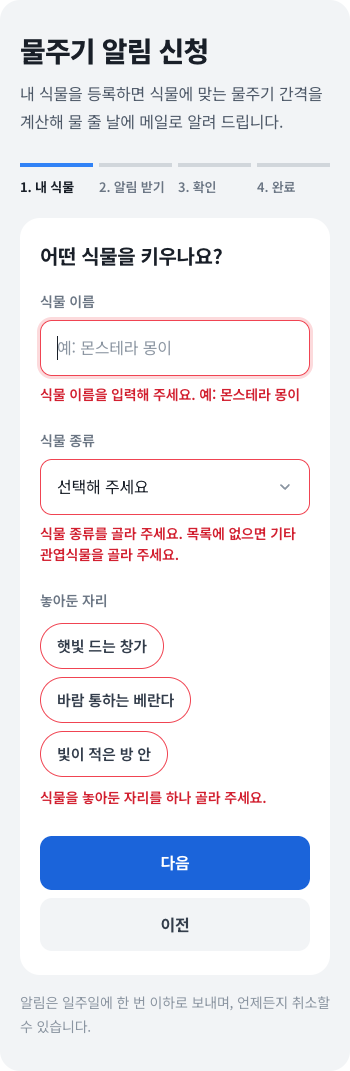
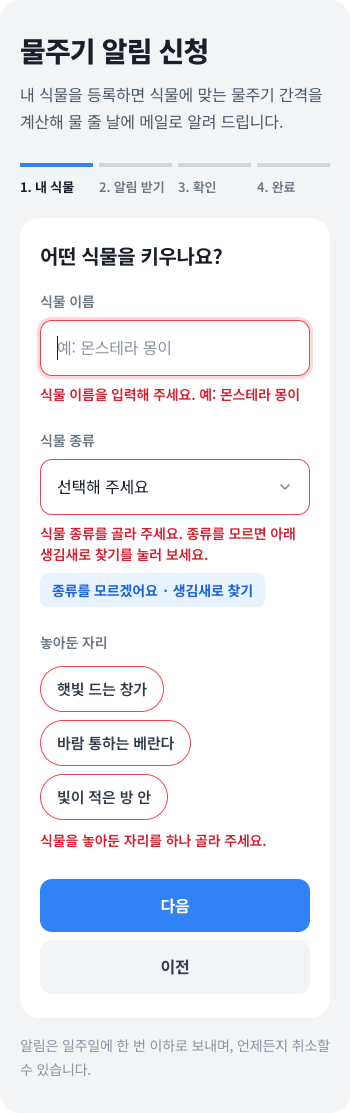
README에 중간고사 추가 기능과 테스트 결과 기록
- 생김새로 식물 찾기의 사용자 행동, 조건, 성공·오류·결과 없음·취소 반응 정리
- 1100px·768px·390px·320px 테스트 결과와 화면 캡처 추가
- 바뀐 2단계 오류 안내 화면 캡처 갱신

diff --git a/README.md b/README.md
@@ -17,6 +17,65 @@
 
 페이지 구성: 상단 바 → 첫 화면 → 서비스 소개 → 주요 기능(탭 3개) → 이용 방법 → 물주기 알림 신청 → 푸터
 
+## 중간고사 추가 기능: 생김새로 식물 찾기
+
+7주차 신청 흐름의 2단계(내 식물)에 **식물 종류를 모를 때 잎·줄기 생김새로 찾아 바로 고르는 경로**를 추가했습니다. "구멍 난 잎", "덩굴"처럼 생김새나 식물 이름을 입력하면 맞는 식물 목록이 나오고, 고른 식물이 신청 흐름의 식물 종류와 확인 화면에 반영됩니다.
+
+- **사용자·목표와의 연결**: 주요 사용자인 식물 초보는 선물 받거나 사 온 식물의 종류 이름을 모르는 경우가 많습니다. 7주차 흐름에서는 종류를 모르면 2단계에서 막혀 목표(물주기 알림 받기)를 끝낼 수 없었습니다. 물주기 간격도 종류에 따라 달라지므로, 종류를 제대로 고르게 돕는 것이 알림의 정확도와도 이어집니다.
+- **흐름과 연결한 지점**: 흐름의 중간인 2단계(내 식물)입니다. `식물 종류` 선택창 아래 `종류를 모르겠어요 · 생김새로 찾기` 버튼에서 시작합니다. 종류를 고르지 않고 `다음`을 누르면 나오는 오류 안내("종류를 모르면 아래 생김새로 찾기를 눌러 보세요.")도 이 기능으로 안내합니다.
+- **입력과 버튼**: `식물 이름이나 잎·줄기 생김새` 검색창, 예시 검색어 버튼 5개(구멍 난 잎 · 덩굴 · 통통한 잎 · 하얀 꽃 · 가시), `찾기`, `이 식물로 선택`, `기타 관엽식물로 등록`(결과 없음일 때), `닫기`
+- **찾는 방법**: 띄어쓰기를 무시하고 식물 8종의 이름 · 생김새 설명 · 검색어 목록과 비교합니다. 검색창에서 누른 Enter는 신청 흐름의 다음 단계로 넘어가지 않고 검색만 합니다. 한글을 조합하는 중에 누른 Enter는 무시해서 검색이 두 번 실행되지 않게 했습니다.
+
+### 사용자 행동과 반응
+
+| 사용자 행동 | 이벤트 | 확인할 조건 | 화면 반응 | 다음 행동 |
+| --- | --- | --- | --- | --- |
+| `종류를 모르겠어요 · 생김새로 찾기` 누름 | `click` | 찾기 영역이 닫혀 있음 | 찾기 영역을 펼치고 검색창에 커서, 버튼은 회색(펼침 상태)으로 바뀜 | 생김새 입력 또는 예시 검색어 누르기 |
+| 검색어 입력 후 `찾기` 누름 또는 Enter | `click` / `keydown` | **성공**: 검색어가 있고 맞는 식물이 있음 | "‘구멍 난 잎’ 검색 결과 1개 · 키우는 식물을 골라 주세요."와 결과 카드(이름 · 생김새 · 기본 물주기 간격) 표시 | `이 식물로 선택` |
+| 〃 | 〃 | **오류**: 검색어가 비어 있음 | 검색창 빨간 테두리와 "찾을 식물의 이름이나 생김새를 입력해 주세요. 예: 구멍 난 잎", 검색창에 커서 | 생김새 입력 (입력하면 오류 표시가 지워짐) |
+| 〃 | 〃 | **결과 없음**: 맞는 식물이 없음 | 주황 글씨 "‘파란 잎’ 검색 결과가 없어요."와 다시 찾는 방법 안내 | 다른 생김새로 다시 찾기 또는 `기타 관엽식물로 등록` |
+| 예시 검색어 버튼 누름 | `click` | - | 검색창에 검색어를 넣고 바로 검색 | `이 식물로 선택` |
+| `이 식물로 선택` 누름 | `click` | - | 식물 종류 선택창에 반영, 종류 오류 지움, 찾기 영역 닫힘, 파란 글씨 "생김새로 찾은 식물: 스파티필름 · 기본 4일마다 물주기" | 자리를 고르고 `다음` → 확인 화면에 "스파티필름 (생김새로 찾음)"과 계산된 간격 표시 |
+| `기타 관엽식물로 등록` 누름 | `click` | 결과 없음 상태 | 종류를 기타 관엽식물로 정하고 "목록에 없는 식물이라 기타 관엽식물(기본 7일마다)로 등록했어요." 안내 | `다음` |
+| `닫기` 누름 (또는 찾기 버튼을 한 번 더 누름) | `click` | **취소**: 찾기 영역이 열려 있음 | 찾기 영역 닫힘, 식물 종류는 그대로, "식물 찾기를 닫았어요. 식물 종류는 그대로예요. 목록에서 고르거나 다시 찾아보세요." | 목록에서 직접 고르기 또는 다시 찾기 |
+| 찾은 뒤 목록에서 종류를 직접 바꿈 | `change` | - | 찾기 안내를 지우고, 확인 화면의 "(생김새로 찾음)" 표시도 빠짐 | `다음` |
+| 찾기를 다시 열거나 `이전`으로 갔다가 돌아옴 | `click` | - | 마지막 검색어와 결과를 그대로 유지 | 이어서 고르기 |
+| `처음부터 다시 신청하기` 누름 | `click` | - | 검색어, 결과, 결과 없음 안내, 오류, 찾기 안내를 모두 지우고 찾기 영역을 닫음 | 새로 신청 |
+
+**파일별 역할**
+- HTML: 찾기 버튼, 검색창, 예시 검색어, 결과 목록, 결과 없음 안내의 구조를 담당합니다. `hidden`, `aria-expanded`, `aria-live`를 사용합니다.
+- CSS: 펼침 상태의 버튼 색, 오류 테두리, 결과 없음의 주황 안내, 결과 카드를 표현하고, 모바일에서는 `이 식물로 선택` 버튼을 전체 너비로 배치합니다.
+- JavaScript: 이벤트(`click` · `keydown` · `input` · `change`)를 연결하고, 검색 조건을 판단해 결과 목록을 만들고, 신청 흐름의 식물 종류와 확인 화면에 반영하고, 초기화합니다.
+
+### 중간고사 기능 테스트 결과
+
+Chrome 브라우저를 스크립트(Puppeteer)로 조작해 화면 너비 1100px · 768px · 390px · 320px에서 실제 클릭 · 터치 · 키 입력을 실행하고, 화면에 나타난 문구와 상태를 확인했습니다. 390px과 320px은 모바일 터치로 조작했습니다.
+
+| 경로 | 시험한 내용 | 1100px | 768px | 390px | 320px |
+| --- | --- | :---: | :---: | :---: | :---: |
+| 정상 | "구멍 난 잎" 입력 후 Enter → 몬스테라 1개, 신청 흐름은 2단계 그대로 | 통과 | 통과 | 통과 | 통과 |
+| 정상 | 예시 "하얀 꽃" → 스파티필름 → `이 식물로 선택` → 선택창 반영, 안내 표시, 찾기 닫힘 | 통과 | 통과 | 통과 | 통과 |
+| 정상 | 이어서 신청 → 확인 화면에 "스파티필름 (생김새로 찾음)", 창가 기준 3일마다 | 통과 | 통과 | 통과 | 통과 |
+| 정상 | 넓은 검색어 "잎" → 결과 7개 목록 | 통과 | 통과 | 통과 | 통과 |
+| 오류 | 빈 검색창으로 `찾기` → 안내, 빨간 테두리, 검색창에 커서 / 입력하면 오류 지움 | 통과 | 통과 | 통과 | 통과 |
+| 오류 연결 | 종류 없이 `다음` → 종류 오류 안내에서 생김새로 찾기 안내 | 통과 | 통과 | 통과 | 통과 |
+| 결과 없음 | "파란 잎" → 결과 없음 안내 → `기타 관엽식물로 등록` → 종류 반영, 종류 오류 지움 | 통과 | 통과 | 통과 | 통과 |
+| 취소 | `닫기` → 찾기 닫힘, 종류 그대로, 다음 행동 안내, 찾기 버튼에 커서 | 통과 | 통과 | 통과 | 통과 |
+| 수정 | 찾은 뒤 목록에서 직접 변경 → 안내 지움 / 확인 화면 `수정`으로 돌아와 선인장으로 변경 → 확인 화면에 "선인장", 17일마다 | 통과 | 통과 | 통과 | 통과 |
+| 값 유지 | 찾기를 다시 열거나 `이전`으로 갔다가 돌아와도 검색어와 결과 유지 | 통과 | 통과 | 통과 | 통과 |
+| 초기화 | 신청 완료 후 `처음부터 다시 신청하기` → 찾기 관련 상태 모두 초기화 | 통과 | 통과 | 통과 | 통과 |
+| 화면 | 모든 상태에서 가로 넘침 · 잘림 · 버튼과 입력창 겹침 없음 | 통과 | 통과 | 통과 | 통과 |
+| 기존 기능 | 7주차 신청 흐름과 주요 기능 탭 다시 확인 (아래 테스트 결과) | 통과 | 통과 | 통과 | 통과 |
+| 콘솔 JavaScript 오류 | - | 없음 | 없음 | 없음 | 없음 |
+
+| 검색 결과 (1100px) | 결과 없음 (390px) |
+| --- | --- |
+| ![생김새 검색 결과 목록](assets/readme/finder-1100-results.png) | ![검색 결과 없음 안내와 기타 관엽식물 등록 버튼](assets/readme/finder-390-no-result.png) |
+
+| 선택 후 안내 (390px) | 확인 화면 반영 (1100px) |
+| --- | --- |
+| ![찾은 식물이 식물 종류에 반영된 화면](assets/readme/finder-390-picked.png) | ![확인 화면의 생김새로 찾음 표시](assets/readme/finder-1100-confirm.png) |
+
 ## 사용자 흐름: 물주기 알림 신청
 
 페이지 맨 아래 `물주기 알림 신청`에서 시작부터 완료까지 다섯 단계로 진행합니다. 상단 메뉴의 `알림 신청`이나 첫 화면의 `물주기 알림 받기` 버튼으로도 바로 이동할 수 있습니다.
@@ -24,7 +83,7 @@
 | 단계 | 화면 제목 | 사용자가 하는 일 | 다음 단계로 가는 조건 |
 | --- | --- | --- | --- |
 | 1. 시작 | 내 식물 등록하고 물주기 알림 받기 | 필요한 정보를 확인하고 `등록 시작하기` | 없음 |
-| 2. 내 식물 (입력·선택) | 어떤 식물을 키우나요? | 식물 이름 입력, 식물 종류 선택, 놓아둔 자리 선택 | 세 항목 모두 입력·선택 |
+| 2. 내 식물 (입력·선택) | 어떤 식물을 키우나요? | 식물 이름 입력, 식물 종류 선택(모르면 생김새로 찾기), 놓아둔 자리 선택 | 세 항목 모두 입력·선택 |
 | 3. 알림 받기 (입력·선택) | 알림을 어디로 보내 드릴까요? | 이메일 입력, 알림 받을 시간 선택 | 이메일 형식이 맞고 시간을 고름 |
 | 4. 확인 | 입력한 내용을 확인해 주세요 | 입력 내용과 계산된 물주기 간격·첫 알림 날짜 확인, 필요하면 `수정`, 수신 동의 체크 | 수신 동의 체크 |
 | 5. 완료 | 물주기 알림 신청 완료 | 결과 확인, 필요하면 `처음부터 다시 신청하기` | - |
@@ -66,9 +125,9 @@
 | --- | --- | --- |
 | ![물주기 알림 탭](assets/readme/1100-water.png) | ![사진 진단 탭](assets/readme/768-diagnosis.png) | ![성장 일지 탭](assets/readme/390-diary.png) |
 
-## 테스트 결과
+## 테스트 결과: 신청 흐름과 기존 기능
 
-Chrome에서 화면 너비 1100px · 768px · 390px · 320px로 페이지를 열고, 위 시나리오를 실제로 클릭·입력·선택하며 확인했습니다. 390px과 320px은 모바일 화면(터치)으로 테스트했습니다. 단계마다 가로 스크롤이 생기거나 화면 밖으로 잘리는 요소가 있는지도 검사했습니다.
+Chrome에서 화면 너비 1100px · 768px · 390px · 320px로 페이지를 열고, 위 시나리오를 실제로 클릭·입력·선택하며 확인했습니다. 중간고사 기능을 추가한 뒤에도 다시 실행해 모두 통과했습니다. 390px과 320px은 모바일 화면(터치)으로 테스트했습니다. 단계마다 가로 스크롤이 생기거나 화면 밖으로 잘리는 요소가 있는지도 검사했습니다.
 
 | 확인 항목 | 1100px | 768px | 390px | 320px |
 | --- | :---: | :---: | :---: | :---: |
@@ -99,13 +158,14 @@ Chrome에서 화면 너비 1100px · 768px · 390px · 320px로 페이지를 열
 | 5주차 | 알림 신청 폼에 JavaScript 입력 확인과 결과 안내, 버튼 상태 변경 추가 |
 | 6주차 | 주요 기능을 탭 3개로 바꾸고, 물주기 계산·잎 상태 진단·성장 일지 체험 기능 추가 |
 | 7주차 | 알림 신청 폼을 시작 → 내 식물 → 알림 받기 → 확인 → 완료의 5단계 흐름으로 확장 |
+| 중간고사 | 신청 흐름 2단계에 종류를 모를 때 생김새로 식물을 찾아 고르는 경로 추가, 식물 종류 3개(고무나무 · 스파티필름 · 선인장) 추가 |
 
 ## 파일 구성
 
 ```
 index.html          페이지 구조와 내용
 style.css           디자인과 반응형 레이아웃
-script.js           탭, 체험 기능, 신청 흐름 동작
+script.js           탭, 체험 기능, 신청 흐름, 식물 찾기 동작
 assets/images/      서비스 소개 이미지
 assets/readme/      README 화면 캡처
 ```
